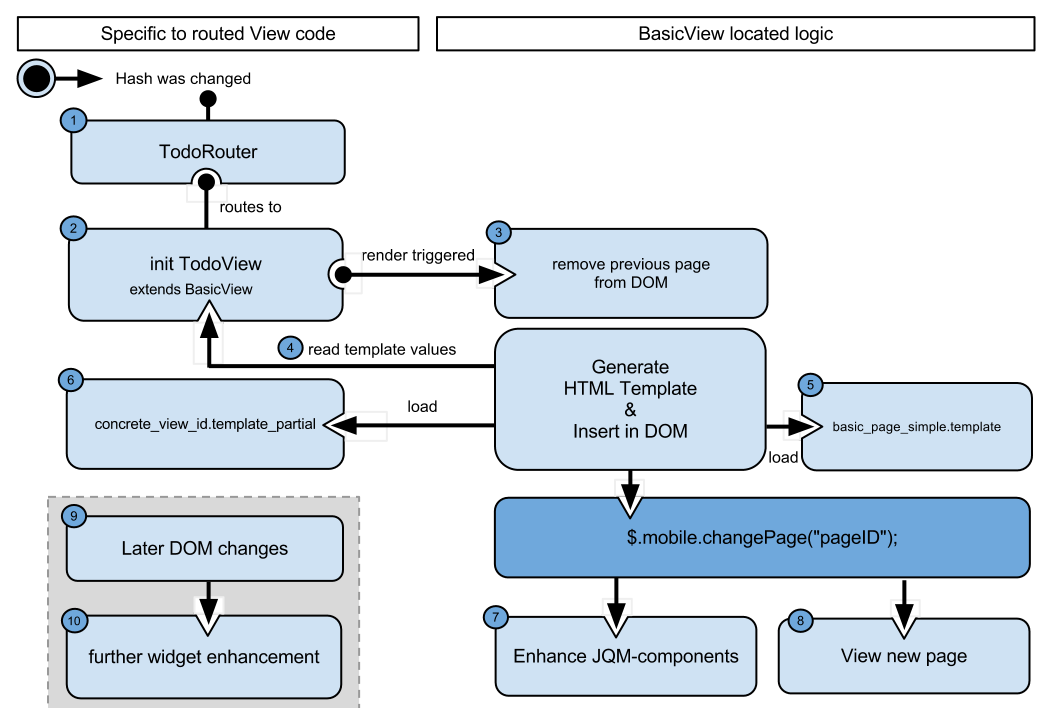
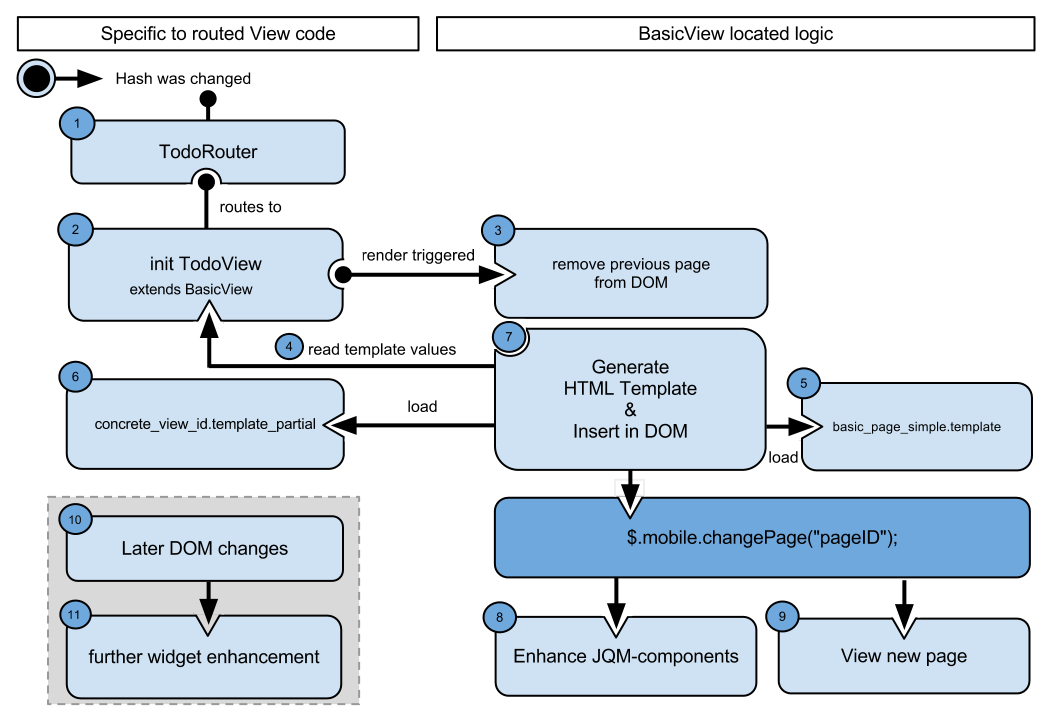
refactored graphic, ,2/3 to more explanations for BasicView

diff --git a/chapters/10-mobile-applications.md b/chapters/10-mobile-applications.md
@@ -149,11 +149,11 @@ Apart from that it makes use of Grunt-BBB ( see chapter "Backbone Boilerplate & 
 
 The initial load of the files to load by Require.js is as follows:
 
-1. "jQuery"
-2. "Underscore/Lodash"
-3. "handlebars.compiled"
-   By opening the console in the project directory and running the Grunt-Backbone command "bbb watch" in the console, 
-   it will combine and compile all template files to dist/debug/handlebars_packaged.
+1. <b>jQuery</b>
+2. <b>Underscore/Lodash</b>
+3. <b>handlebars.compiled</b>
+   By opening the console in the project directory and running the Grunt-Backbone command <b>bbb handlebars</b> or <b>bbb watch</b> in the console, 
+   it will combine and compile all template files to <b>dist/debug/handlebars_packaged</b>.
 4. TodoRouter (instantiates specific views)
 5. "jQueryMobile"
 6. "JqueryMobileCustomInitConfig"
@@ -240,22 +240,34 @@ $(document).bind("mobileinit", function(){
 });
 ```
 
-The new workflow will look like:
+The behaviour and usage of the new workflow will be explained, grouped by its functionalities:
+<b>Routing to a concrete View-page</b>, <b>Management of mobile page templates</b> and <b>DOM management and $.mobile.changePage</b>.
+For an overview and understanding the chronological order, have a look on the diagram below.
+In the following, the steps 1-11 are attached to the text and refer to the new workflow diagram of the mobile application.
 
 ![](../img/chapter10-2-1.png)
 
 <i>Workflow of Backbone and jQueryMobile</i>
 
-####Routing to a concrete View-page
+####Routing to a concrete View-page, inherited by BasicView
 
-Whenever the hash URL was changed, e.g. by clicking the link, the configuration prevented jQM to trigger its events. Instead, the Backbone Router listens to the hash changes and decides which view to request.
+Whenever the hash URL has changed, e.g. by clicking the link, the configuration prevented jQM to trigger its events. Instead, the Backbone Router listens to the hash changes and decides which view to request.
 
 However, experience has shown that, it is a good practice for mobile pages, to create prototypes(superclasses) for various situations like the usage of the jQuery Validation Plugin or popups with jQM.
 Then it becomes much easier to exchange device specific view logics, at runtime, and adopt general strategies- This would also help to add syntax and to support multi chaining of prototype inheritance with JavaScript and Backbone.
 By creating a “BasicView” of superclass, we enable all inherited-view-pages to share a common way to handle jQM the common usage of a template engine and specific view handling.
 
+TODO
+TODO
+TODO
+As explained before, JQuery Mobile supports the concept of Multipages, where you can organize your entire markup into a single HTML page body.
+To follow the DRY(Don’t repeat yourself) concept, it is advised to register the basic anatomy of jQM pages, popups and dialogs 
+as well as the concrete View implementations in a separate HTML template file.
+In the build progress of Grunt/Yeoman, the semantic templates will be compiled by Handlebar.js and the AMDs template files are combined into a single file.
+By merging all page definitions into a single-file-app, it becomes offline capable, which is important for mobile app.
 
-#### Management of templates
+
+#### Management of mobile page templates
 
 A concrete View-page, you can override properties for static values and functions to return dynamic values of the super class "BasicView".
 These values will be later on processed by the BasicView to construct the HTML of a jQuery Mobile page with the help of Handlebars.
@@ -291,26 +303,26 @@ define([
     });
 ```
 
-<i>Sample of a concrete View of "EditTodoPage.js"</i>
+<i>Sample of a concrete View of <b>EditTodoPage.js</b></i>
 
 
-By default, the BasicView uses the <b>basic_page_simple.template</b> as the template.
-The <b>getTemplateID</b> is meant to be overriden, if you need a custom template, being used only once, 
-or to create a new Super-abstract-View, like the basic_page_simple.
+By default, the BasicView uses the <b>basic_page_simple.template</b> as the Handlebars template.
+if you need a custom template, being used only once, 
+or in the case you want to create a new Super-abstract-View, like the basic_page_simple, override the <b>getTemplateID</b>.
 
 ```javascript
 getTemplateID : function(){
-  return "custom_page_template"
+  return "custom_page_template";
 }
 ```
 
 By convention, the overridden <b>id</b>-attribute will be taken as the id of the jQM page
-as well as the filename of the corresponding template-file to be inserted as a partial.
+as well as the filename of the corresponding template-file to be inserted as a partial in the <b>basic_page_simple</b> template.
 In the case of the <b>EditTodoPage</b>-View, the name of the file will be <b>editTodoPage.template_partial</b>.
 Every concrete page is meant to be a partial, which will be inserted in the <b>data-role="content"</b> element,
 where the parameter <b>templatePartialPageID</b> is located.
 
-The <b>getHeaderTitle</b> from the <b>EditTodoPage<b> will be replaced in the abstract template with <b>headerTitle</b>.
+The <b>getHeaderTitle</b> function from the <b>EditTodoPage</b> will be replaced in the abstract template with <b>headerTitle</b>.
 
 
 ```javascript
@@ -330,7 +342,7 @@ The <b>getHeaderTitle</b> from the <b>EditTodoPage<b> will be replaced in the ab
 </div>
 ```
 
-<i>Code of basic_page_simple.template</i>
+<i>Code of <b>basic_page_simple.template</b></i>
 
 
 The <b>whatis</b> Handlebars View helper does simple logging of parameters.
@@ -338,7 +350,7 @@ The <b>whatis</b> Handlebars View helper does simple logging of parameters.
 
 All the additional parameters being returned by <b>getSpecificTemplateValues</b> 
 will be replaced in the concrete template <b>editTodoPage.template_partial</b>.
-Because footerContent is used rarely, it can be returned in <b>getSpecificTemplateValues</b>.
+Because <b>footerContent</b> is expected to be used rarely, it can be returned in <b>getSpecificTemplateValues</b>.
 In the case of the EditTodoPage View, all the model information is being returned,
 where <b>title</b> is used in the concrete partial page.
 
@@ -355,100 +367,108 @@ where <b>title</b> is used in the concrete partial page.
 
 
 
-The Grunt Handlebars plugin in the <b>grunt.js</b> file is configured to compile and merge files with the postfix <b>.template</b> and <b>.template_partial</b>.
-
-
 #### DOM management and $.mobile.changePage
 
-TODO
-The previous jQuery Mobile page from the DOM should be removed prior to the triggering of 'render'; this is done in order to avoid any duplication.
-TODO
+When <b>render</b> is triggered, BasicView will clean up the DOM, by removing the previous page(Line 70).
+<b>$.remove</b> cannot be used, but <b>$previousEl.detach()</b> to delete the elements from the DOM,
+but not its attached events and data. This is important, because jQuery Mobile still needs information to e.g.
+trigger transition effects when switching to the next page. 
+To only remove the old page having the same id than the current from the DOM, when it was already requested before,
+is also a working strategy of preventing DOM duplication. Depending on what fits best to your application needs,
+it is also possible a one-banana problem to exchange it with a caching mechanism.
+
+
+Next, BasicView will collect all template parameters
+and inserts the HTML of the requested View into the DOM (Steps 4, 5, 6 and 7).
+
+
 
 ```javascript
-define([
-    "lodash",
-    "backbone",
-    "handlebars",
-    "handlebars_helpers"
-],
-
-function (_, Backbone, Handlebars) {
-    var BasicView = Backbone.View.extend({
-        initialize: function () {
-            _.bindAll();
-            this.render();
-        },
-        events: {
-            "click #backButton": "goBackInHistory"
-        },
-        role: "page",
-        attributes: function () {
-            return {
-                "data-role": this.role
-            };
-        },
-        getHeaderTitle: function () {
-            return this.getSpecificTemplateValues().headerTitle;
-        },
-        getTemplateID: function () {
-            return "basic_page_simple";
-        },
-        goBackInHistory: function (clickEvent) {
-            history.go(-1);
-            return false;
-        },
-        getTemplateResult: function (templateDefinitionID, templateValues) {
-            return window.JST[templateDefinitionID](templateValues);
-        },
-        getBasicPageTemplateResult: function () {
-            var templateValues = {
-                templatePartialPageID: this.id,
-                headerTitle: this.getHeaderTitle()
-            };
-            var specific = this.getSpecificTemplateValues();
-            $.extend(templateValues, this.getSpecificTemplateValues());
-            return this.getTemplateResult(this.getTemplateID(), templateValues);
-        },
-        getRequestedPageTemplateResult: function () {
-            this.getBasicPageTemplateResult();
-        },
-        render: function () {
-            this.cleanupPossiblePageDuplicationInDOM();
-            $(this.el).html(this.getBasicPageTemplateResult());
-            this.addPageToDOMAndRenderJQM();
-            this.enhanceJQMComponentsAPI();
-        },
-        enhanceJQMComponentsAPI: function () {
-            $.mobile.changePage("#" + this.id, {
-                changeHash: false,
-                role: this.role
-            });
-        },
-        addPageToDOMAndRenderJQM: function () {
-            $("body").append($(this.el));
-            $("#" + this.id).page();
-        },
-        // Instead you could move it to the event "pagehide": or "onPageHide"
-        cleanupPossiblePageDuplicationInDOM: function () {
-            var $previousEl = $("#" + this.id);
-            var alreadyInDom = $previousEl.length >= 0;
-            if (alreadyInDom) {
-                $previousEl.detach();
-            }
-        }
-    });
-
-    return BasicView;
-});
+ 1 define([
+ 2     "lodash",
+ 3     "backbone",
+ 4     "handlebars",
+ 5     "handlebars_helpers"
+ 6 ],
+ 7 
+ 8 function (_, Backbone, Handlebars) {
+ 9     var BasicView = Backbone.View.extend({
+10         initialize: function () {
+11             _.bindAll();
+12             this.render();
+13         },
+14         events: {
+15             "click #backButton": "goBackInHistory"
+16         },
+17         role: "page",
+18         attributes: function () {
+19             return {
+20                 "data-role": this.role
+21             };
+22         },
+23         getHeaderTitle: function () {
+24             return this.getSpecificTemplateValues().headerTitle;
+25         },
+26         getTemplateID: function () {
+27             return "basic_page_simple";
+28         },
+29         render: function () {
+30             this.cleanupPossiblePageDuplicationInDOM();
+31             $(this.el).html(this.getBasicPageTemplateResult());
+32             this.addPageToDOMAndRenderJQM();
+33             this.enhanceJQMComponentsAPI();
+34         },
+35 // Generate HTML by the Handlebars templates
+36         getTemplateResult: function (templateDefinitionID, templateValues) {
+37             return window.JST[templateDefinitionID](templateValues);
+38         },
+39 // Collect all template paramters and merge them
+40         getBasicPageTemplateResult: function () {
+41             var templateValues = {
+42                 templatePartialPageID: this.id,
+43                 headerTitle: this.getHeaderTitle()
+44             };
+45             var specific = this.getSpecificTemplateValues();
+46             $.extend(templateValues, this.getSpecificTemplateValues());
+47             return this.getTemplateResult(this.getTemplateID(), templateValues);
+48         },
+49         getRequestedPageTemplateResult: function () {
+50             this.getBasicPageTemplateResult();
+51         },
+52         enhanceJQMComponentsAPI: function () {
+53 // changePage
+54             $.mobile.changePage("#" + this.id, {
+55                 changeHash: false,
+56                 role: this.role
+57             });
+58         },
+59 // Add page to DOM
+60         addPageToDOMAndRenderJQM: function () {
+61             $("body").append($(this.el));
+62             $("#" + this.id).page();
+63         },
+64 // Cleanup DOM strategy
+65         cleanupPossiblePageDuplicationInDOM: function () {
+66         // Can also be moved to the event "pagehide": or "onPageHide"
+67             var $previousEl = $("#" + this.id);
+68             var alreadyInDom = $previousEl.length >= 0;
+69             if (alreadyInDom) {
+70                 $previousEl.detach();
+71             }
+72         },
+73 // Strategy to always support back button with disabled navigation
+74         goBackInHistory: function (clickEvent) {
+75             history.go(-1);
+76             return false;
+77         }
+78     });
+79 
+80     return BasicView;
+81 });
 ```
 
 
 
-As explained before, JQuery Mobile supports the concept of Multipages, where you can organize your entire markup into a single HTML page body.
-To follow the DRY(Don’t repeat yourself) concept, it is advised to register the basic anatomy of jQM pages, popups and dialogs 
-as well as the concrete View implementations in a separate HTML template file.
-In the build progress of Grunt/Yeoman, the semantic templates will be compiled by Handlebar.js and the AMDs template files are combined into a single file.
-By merging all page definitions into a single-file-app, it becomes offline capable, which is more important for mobile app.
 
 In the next step, the "basic_page_simple" template, consisting of a common jQM page anatomy, will be loaded.
 As you can see, it also contains a manual implementation to handle the back buttons action as well as some console outputs for development.
